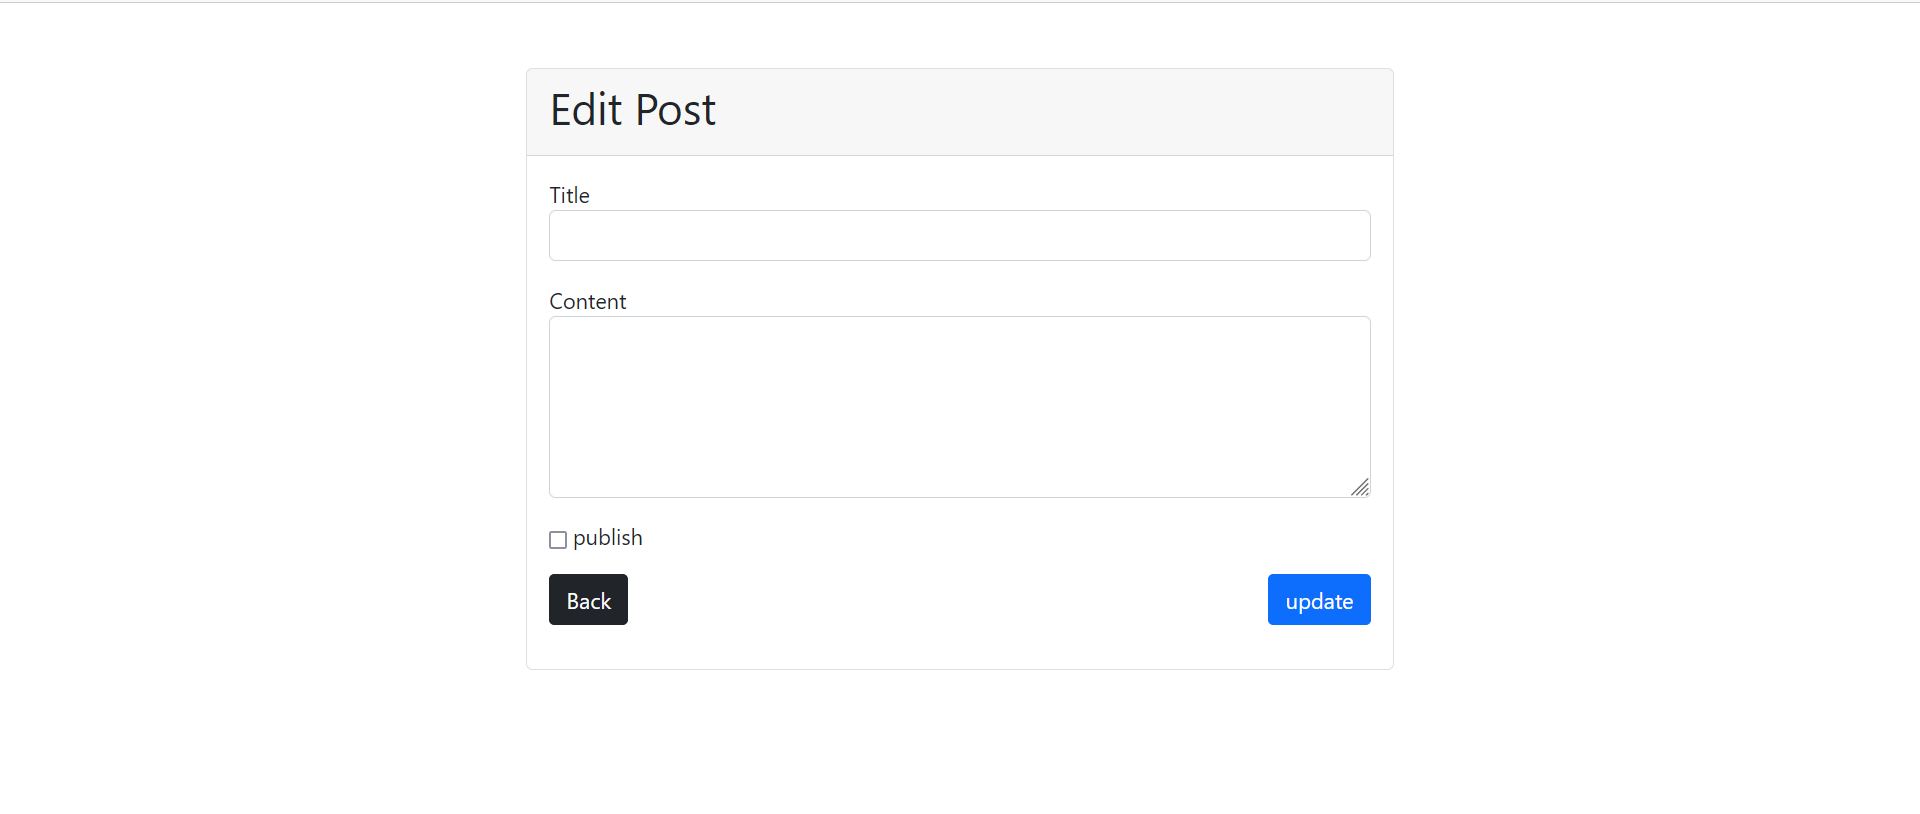
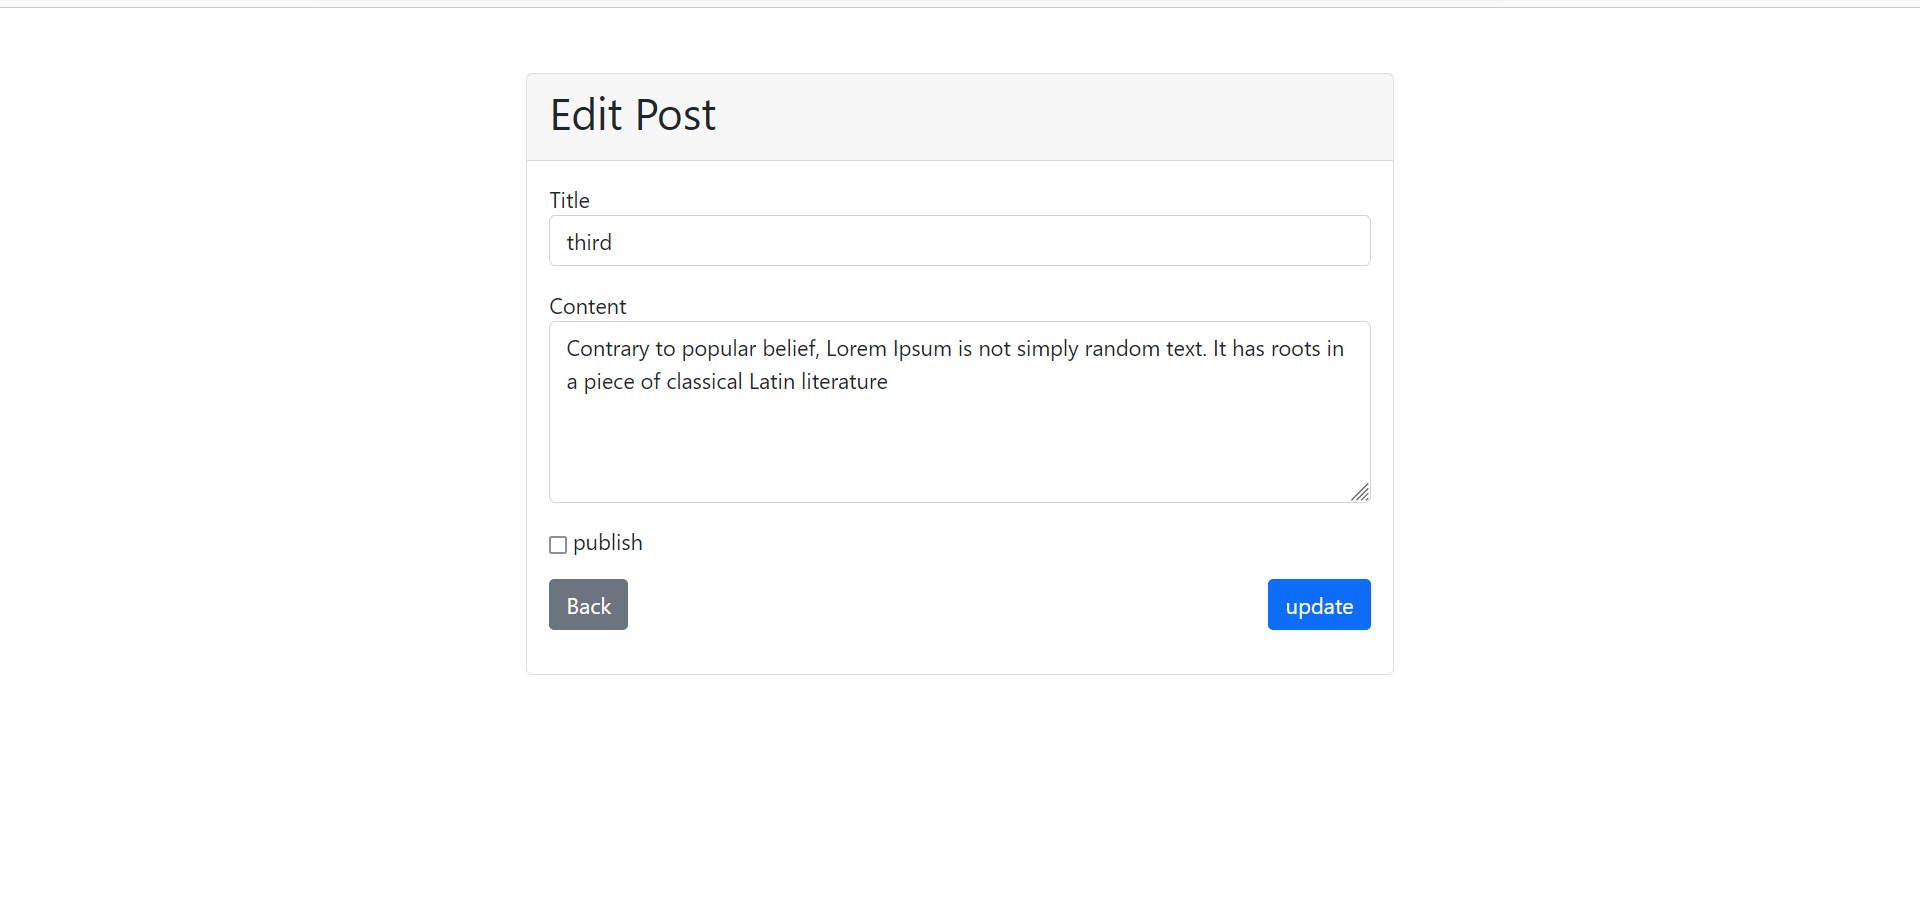
done

diff --git a/Tutorial_08/edit.php b/Tutorial_08/edit.php
@@ -3,6 +3,10 @@ require_once 'db.php';
 $title_error = $content_error = '';
 $title = $content = '';
 $id = $_GET['updateid'];
+$sql = "SELECT * FROM lists WHERE id=$id"; //select data from lists table
+$query = mysqli_query($conn, $sql); //get connection
+$data = mysqli_fetch_assoc($query); //get data
+
 if (isset($_POST['edit'])) {
     if (empty($_POST['title'])) {
         $title_error = 'Title field is required';
@@ -16,7 +20,6 @@ if (isset($_POST['edit'])) {
         $content = $_POST['content'];
     }
     if (empty($title_error) && empty($content_error)) {
-
         $publish = isset($_POST['publish']) ? 1 : 0;
         $sql = "UPDATE lists SET
                         title='$title',
@@ -25,6 +28,7 @@ if (isset($_POST['edit'])) {
                         updated_datetime=NOW()
                         WHERE id=$id";
         $result = mysqli_query($conn, $sql);
+
         if ($result) {
             echo "success";
         } else {
@@ -62,14 +66,13 @@ if (isset($_POST['edit'])) {
             <form action="" method="post">
               <div class="mb-3">
                 <label>Title</label>
-                <input type="text" class="form-control" name="title" value="">
+                <input type="text" class="form-control" name="title" value="<?php echo $data['title'] ?>">
                 <span class="text-danger"><?php echo $title_error; ?></span>
               </div>
               <div class="mb-3">
                 <label>Content</label>
-                <textarea name="content" rows="5" cols="30" class="form-control">
-
-                </textarea>
+                <textarea name="content" rows="5" cols="30"
+                  class="form-control"><?php echo $data['content'] ?></textarea>
                 <span class="text-danger"><?php echo $content_error; ?></span>
               </div>
               <div class="mb-3">
